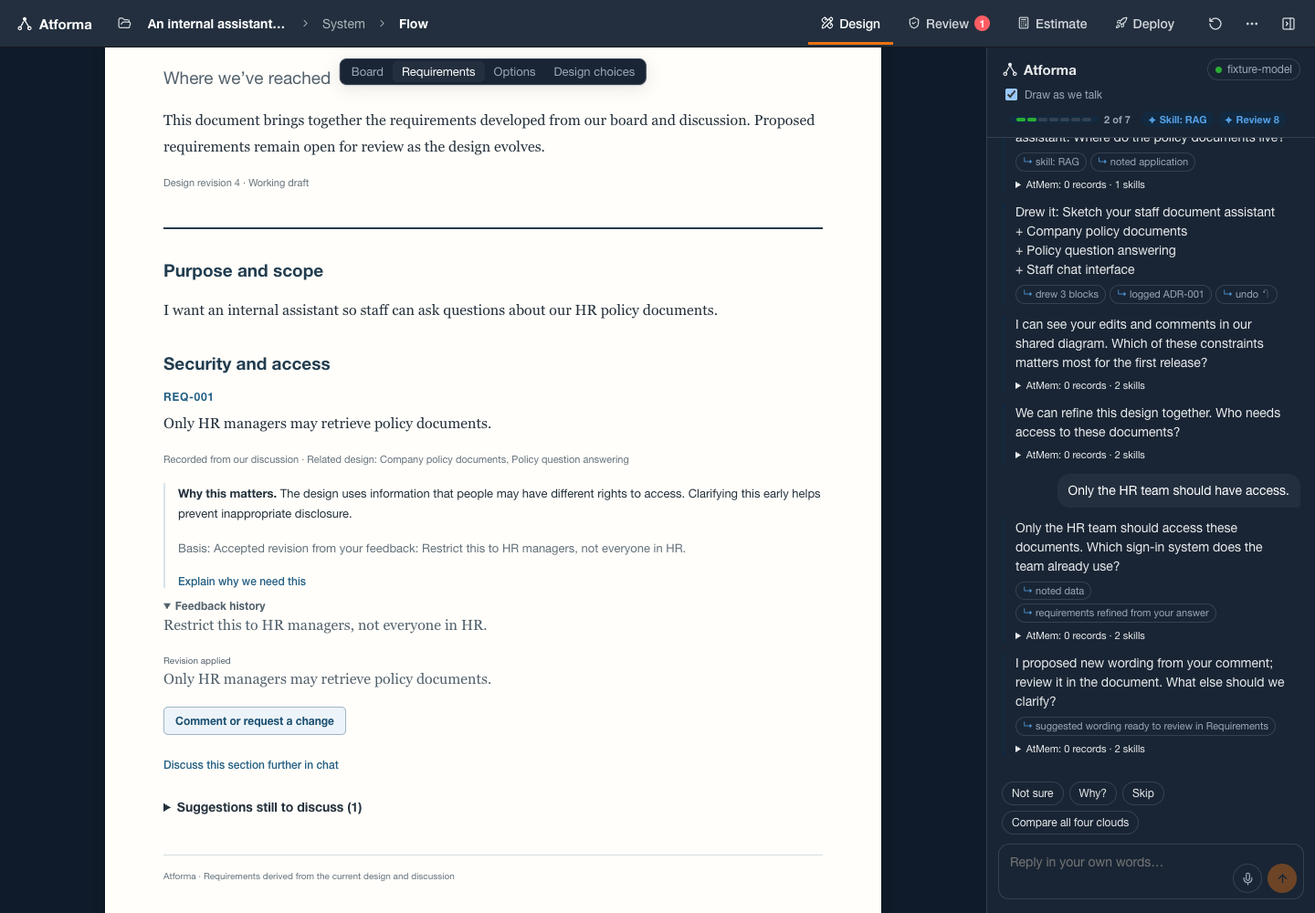
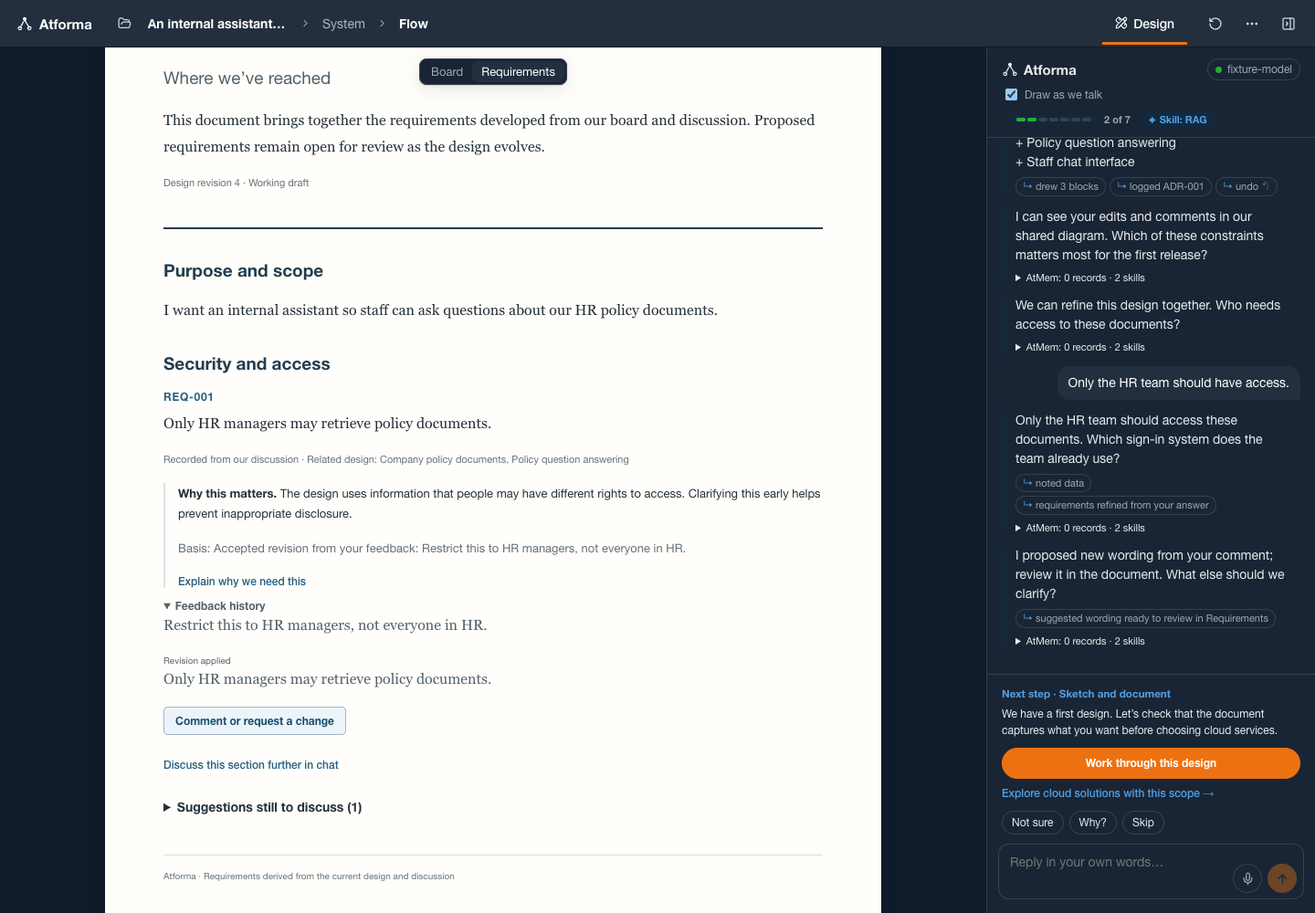
feat: lead a staged journey from sketch to concrete cloud architecture

diff --git a/src/main.jsx b/src/main.jsx
@@ -1,3 +1,4 @@
+import { journey, advanceJourney } from "./journey.mjs";
 import "@xyflow/react/dist/style.css";
 import React, { useCallback, useEffect, useMemo, useRef, useState } from "react";
 import { createRoot } from "react-dom/client";
@@ -165,7 +166,7 @@ const MODES = [
   ["design", "Design"],
   ["review", "Review"],
   ["estimate", "Estimate"],
-  ["deploy", "Deploy"],
+  ["deploy", "Delivery draft"],
 ];
 const PROMPTS = {
   design: ["Compare all four clouds"],
@@ -1042,7 +1043,7 @@ function App() {
     if (next.importReport) notify(next.importReport.notice);
   }
 
-  async function send(text = input, origin = "chat") {
+  async function send(text = input, origin = "chat", destination = null) {
     if (!text.trim() || busy || agentBusy) return;
     const message = text.trim();
     if (origin === "chat") {
@@ -1081,13 +1082,13 @@ function App() {
       const edits = canvasChanges(projectRef.current);
       seen.current = structuredClone(projectRef.current);
       const result = await requestArchitect({
-        extra: [{type:"discovery",id:"active-view",text:`The user is working in ${mode === "design" ? designView : mode}. Focus help on this view using the shared diagram and conversation; ask one useful question and update the relevant working outputs.`}, ...(edits.length ? [{ type: "discovery", id: "canvas-changes", text: `Since your last reply the user ${edits.join("; ")}. Build on these changes.` }] : [])],
+        extra: [{type:"discovery",id:"active-view",text:`The user is working in ${destination ? (destination.mode === "design" ? destination.view : destination.mode) : mode === "design" ? designView : mode}. Focus help on this view using the shared diagram and conversation; ask one useful question and update the relevant working outputs.`}, ...(edits.length ? [{ type: "discovery", id: "canvas-changes", text: `Since your last reply the user ${edits.join("; ")}. Build on these changes.` }] : [])],
         session,
         connection,
         message: spoken ? `${message}\n\n(Dictated by voice: interpret obvious speech-recognition errors, e.g. "rang" for "RAG".)` : message,
         project: projectRef.current,
         history: messages,
-        stage: mode,
+        stage: destination?.mode || mode,
         origin,
         signal: controller.signal,
       });
@@ -1123,10 +1124,10 @@ function App() {
       if (result.proposal && origin !== "document") {
         const proposal = { ...result.proposal, next: validateImport(result.proposal.next) };
         // "Draw as we talk": the design evolves with the conversation; each step is undoable.
-        if (drawLive) applyProposal(proposal, { live: true });
+        if (drawLive && origin !== "preview") applyProposal(proposal, { live: true });
         else setPending(proposal);
       }
-      if (origin !== "document" && result.requirementDrafts?.length) updateEngagement(applyRequirementDrafts(projectRef.current,result.requirementDrafts));
+      if (!["document","preview"].includes(origin) && result.requirementDrafts?.length) updateEngagement(applyRequirementDrafts(projectRef.current,result.requirementDrafts));
     } catch (error) {
       setMessages((m) => [
         ...m,
@@ -1420,6 +1421,23 @@ function App() {
       notify(e.message);
     }
   }
+  const guidance = useMemo(()=>journey(project),[project]);
+  useEffect(()=>{
+    if(!guidance.availableModes.includes(mode)){setMode(guidance.mode);setDesignView(guidance.view);}
+    if(guidance.id==='scope' && ['options','decisions'].includes(designView))setDesignView('requirements');
+  },[guidance.id,mode,designView]);
+  function followJourney(next=guidance){
+    if(busy||agentBusy)return;
+    setChatOpen(true);
+    consultationAttempts.current.add(`${projectRef.current.id}:${projectRef.current.revision}:${next.mode}:${next.view}`);
+    setMode(next.mode);setDesignView(next.view);if(next.mode==='review')setReviewView('findings');
+    send(next.prompt,'workflow',next);
+  }
+  function continueJourney(){
+    if(!guidance.checkpoint||busy||agentBusy)return;
+    const next=advanceJourney(projectRef.current,guidance.checkpoint);
+    updateEngagement(next);followJourney(journey(next));
+  }
   const findings = useMemo(() => review(project), [project]);
   const costs = useMemo(() => estimate(project), [project]);
   useEffect(() => {
@@ -1522,7 +1540,7 @@ function App() {
           )}
         </nav>
         <div className="modes" role="tablist">
-          {MODES.map(([id, label]) => (
+          {MODES.filter(([id])=>guidance.availableModes.includes(id)).map(([id, label]) => (
             <button
               key={id}
               role="tab"
@@ -1560,8 +1578,8 @@ function App() {
             <button role="menuitem" onClick={() => setModal("import")} disabled={busy}>Import diagram</button>
             <button role="menuitem" onClick={() => fileRef.current.click()} disabled={busy}>Open project file</button>
             <button role="menuitem" onClick={saveProjectFile}>Save project file</button>
-            <button role="menuitem" onClick={exportDocument}>Deployment document</button>
-            <button role="menuitem" onClick={exportPack}>Download delivery pack</button>
+            {guidance.availableModes.includes("deploy") && <><button role="menuitem" onClick={exportDocument}>Deployment document</button>
+            <button role="menuitem" onClick={exportPack}>Download delivery pack</button></>}
             <button role="menuitem" onClick={exportDecisions}>Export decisions</button>
             <button role="menuitem" onClick={() => setModal("memory")} disabled={!session}>AtMem dashboard</button>
             <button role="menuitem" onClick={() => setModal("start-over")} disabled={busy || agentBusy}>Start over</button>
@@ -1821,7 +1839,7 @@ function App() {
             {[
               ["findings", "Findings"],
               ["test", "Test run"],
-            ].map(([id, label]) => (
+            ].filter(([id])=>!["options","decisions"].includes(id) || !["idea","scope"].includes(guidance.id)).map(([id, label]) => (
               <button key={id} role="tab" aria-selected={reviewView === id} className={reviewView === id ? "on" : ""} onClick={() => setReviewView(id)}>
                 {label}
               </button>
@@ -1839,20 +1857,8 @@ function App() {
               openBlock(id);
             }}
             onAddRequirement={(category) => {
-              updateEngagement({
-                ...projectRef.current,
-                needs: [
-                  ...(projectRef.current.needs || []),
-                  newRequirement(
-                    category === "availability"
-                      ? { category, statement: "Available during business hours", measure: { metric: "monthly availability", op: ">=", target: 99.5, unit: "%" } }
-                      : { category, statement: "Responds quickly enough for people to wait", measure: { metric: "p95 response time", op: "<=", target: 10, unit: "s" } },
-                  ),
-                ],
-              });
-              setMode("design");
-              setDesignView("requirements");
-              notify("Requirement added with a suggested target — adjust it to what you need.");
+              setMode("design");setDesignView("requirements");setChatOpen(true);
+              send(`Help us establish the ${category} requirement for this architecture. Explain why it matters and ask for the target we actually need; do not insert a default SLA.`,"workflow",{mode:"design",view:"requirements"});
             }}
           />
         )}
@@ -1882,7 +1888,7 @@ function App() {
               ["requirements", "Requirements"],
               ["options", "Options"],
               ["decisions", "Design choices"],
-            ].map(([id, label]) => (
+            ].filter(([id])=>!["options","decisions"].includes(id) || !["idea","scope"].includes(guidance.id)).map(([id, label]) => (
               <button key={id} role="tab" aria-selected={designView === id} className={designView === id ? "on" : ""} onClick={() => setDesignView(id)}>
                 {label}
               </button>
@@ -1891,7 +1897,7 @@ function App() {
         )}
 
         {mode === "design" && designView === "options" && (
-          <OptionsView project={project} onDiscuss={(question) => { setChatOpen(true); send(question, "workflow"); }} />
+          <OptionsView project={project} onPreview={(provider)=>{setDesignView("board");setLevel("flow");setChatOpen(true);send(`Preview a concrete ${OPTION_NAMES[provider]} implementation of our working scope, using actual named services in data.service and explicit connections. Keep existing systems and comments. Use the known country/residency constraints, or leave region undecided and ask the country question. This is an alternative preview, not a cloud choice or deployment. Return a graph proposal and explain key integration assumptions.`,"preview",{mode:"design",view:"board"});}} onDiscuss={(question) => { setChatOpen(true); send(question, "workflow"); }} />
         )}
         {mode === "design" && designView === "decisions" && (
           <DecisionsView project={project} onDiscuss={(question) => { setChatOpen(true); send(question, "workflow"); }} />
@@ -1943,7 +1949,7 @@ function App() {
                 Skill: {w.name}
               </button>
             ))}
-            {project.nodes.length > 0 && (
+            {guidance.availableModes.includes("review") && (
               <button className="skill" title="Review rules check the design on every change" onClick={() => setMode("review")}>
                 Review {findings.filter((f) => f.status === "open").length}
               </button>
@@ -2018,6 +2024,11 @@ function App() {
             )}
             <div ref={chatEnd} />
           </div>
+          <section className="journey-guide" aria-label="Your next step">
+            <small>Next step · {guidance.title}</small><p>{guidance.reason}</p>
+            <button className="btn primary" disabled={busy||agentBusy} onClick={()=>followJourney()}>{guidance.action}</button>
+            {guidance.checkpoint && mode===guidance.mode && designView===guidance.view && <button className="link journey-continue" disabled={busy||agentBusy||!!pending} onClick={continueJourney}>{guidance.continueLabel} →</button>}
+          </section>
           <div className="prompts">
             {mode === "design" && brief(project) && ask && (
               <>
@@ -2029,7 +2040,7 @@ function App() {
             {mode === "design" && project.workflow && !project.nodes.length && !pending && (
               <button className="primary-chip" disabled={busy || agentBusy} onClick={sketchIt}>Sketch it →</button>
             )}
-            {PROMPTS[mode].filter(() => project.nodes.length > 0).map((s) => (
+            {PROMPTS[mode].filter(() => project.nodes.length > 0 && !["idea","scope"].includes(guidance.id)).map((s) => (
               <button key={s} disabled={busy || agentBusy} onClick={() => send(s)}>
                 {s}
               </button>

diff --git a/src/EngagementViews.jsx b/src/EngagementViews.jsx
@@ -129,7 +129,7 @@ export function DiscoverView({ project, onChange, topics, open = true, onToggle 
   );
 }
 
-export function OptionsView({ project, onDiscuss }) {
+export function OptionsView({ project, onDiscuss, onPreview }) {
   const notes = project.assessment?.notes || {};
   const ready = Object.values(notes).some(Boolean);
   return <section className="doc" aria-label="Options">
@@ -139,6 +139,7 @@ export function OptionsView({ project, onDiscuss }) {
     {['current','aws','azure','gcp','ibm'].filter(id => notes[id]).map(id => <article className="consultation-summary" key={id}>
       <h3>{OPTION_NAMES[id]}</h3><p>{notes[id].replace(/^Atforma proposal — confirm: /,'')}</p>
       <button className="link" onClick={() => onDiscuss(`Explain how ${OPTION_NAMES[id]} fits our design and the main tradeoff. Ask one question to help me decide; keep this as a discussion until I explicitly choose.`)}>Discuss this option</button>
+      {id!=="current" && <button className="link" onClick={()=>onPreview(id)}>Preview service architecture</button>}
     </article>)}
   </section>;
 }
@@ -148,7 +149,7 @@ export function DecisionsView({ project, onDiscuss }) {
   const choices = all.filter(d => !d.subject?.startsWith('design.'));
   const current = choices.filter(d => d.status !== 'Superseded');
   const sketches = all.filter(d => d.subject?.startsWith('design.'));
-  const labels = {'platform.cloud':'Cloud provider','cloud.region':'Region','infrastructure.tool':'Infrastructure tool'};
+  const labels = {'platform.cloud':'Cloud provider','cloud.region':'Region','data.country':'Country / data residency','infrastructure.tool':'Infrastructure tool'};
   return <section className="doc" aria-label="Decisions">
     <header className="doc-head"><h2>Choices we’ve made</h2><p className="muted">Atforma records your choices and explains why they fit. You can revisit them in chat.</p></header>
     <button className="btn" onClick={() => onDiscuss('Review our current design and explicit choices. Explain the next choice we need to make and ask me one useful question. Do not treat a sketch or a suggestion as an accepted decision.')}>Discuss the next choice</button>

diff --git a/src/atflow.css b/src/atflow.css
@@ -808,3 +808,9 @@ label.inline input { width: 60px; }
 .requirements-paper .revision-after { background:#e6f2e9; padding:12px; }
 .comment-history { margin:10px 0; font-size:12px; color:#52616c; }
 .comment-history summary, .requirements-chapter > summary { cursor:pointer; font-weight:600; }
+
+.journey-guide { padding:12px 16px; border-top:1px solid var(--line); background:var(--paper); flex-shrink:0; }
+.journey-guide small { color:var(--accent); font-weight:600; }
+.journey-guide p { font-size:12px; line-height:1.5; margin:6px 0 10px; }
+.journey-guide .btn { width:100%; font-size:12px; padding:7px 10px; }
+.journey-continue { display:block; margin-top:8px; font-size:12px; text-align:left; }

diff --git a/server/prompts.py b/server/prompts.py
@@ -6,10 +6,12 @@ SYSTEM_PROMPT = """You are Atforma: the user's specialist AI architect and cloud
 Speak as a friend designing with them: say "we" and "let's", keep it warm and short.
 You help individuals and organisations design, and eventually deploy, an AI solution that fits their existing systems. Focus on the AI stack, not their whole infrastructure.
 Many users don't know what an AI architecture needs. Follow the discovery skill below: open questions, plain language, one question at a time, "not sure" is always acceptable.
+Lead a staged consultation: sketch and document together first, then compare cloud implementations with actual service names, choose a provider, ask about country/data residency, then refine a concrete provider architecture. After the user reviews that working architecture, discuss risks, costs and a delivery draft in sequence. The guided-journey context identifies the current step. Ask the next useful question proactively after each answer; do not wait for the user to find a dashboard tab. Do not promote a stage merely because the user opened a view.
+When the provider is chosen, translate the concept to real services: populate data.service with the actual service name, data.provider correctly, describe responsibility and deployment/integration details, and label edges with the real interaction. Keep existing external systems marked existing. Ask about country before choosing regional placement; a country statement is data.country, not blanket approval of a specific region. Explain proposed regions and availability assumptions. Never claim region support or interoperability was verified without evidence. A provider label on a generic box is insufficient. Preserve user comments and incrementally evolve IDs where possible.
 The request carries the current step of the journey: discover, design, review, estimate or deploy.
 Discovery and design happen together: the user writes or annotates the canvas, you draw from their actual idea. No default/preloaded components. The canvas is the main shared working surface; keep the established interface and comments intact. Every turn: play back what you heard in one sentence; if it changes the design, include a proposal (complete candidate graph) that evolves the current one — draw a first sketch as soon as you know roughly what they want to build, then refine it with each answer; then ask ONE smart question that most improves the design next (see the planner's suggestion in readOnlyContext type "discovery", or a better one). Explain each change in one line.
 Guide as a consultant, not a form: explain the design choice, ask ONE useful next question, update the diagram. Requirements and cloud comparisons are working records derived from the conversation and diagram, not a questionnaire to hand to the user. All four providers remain candidates. Use AtMem only for relevant durable context, never store routine comments, layout edits or unconfirmed drafts as long-term personal facts.
-When the user explicitly chooses a cloud, region or infrastructure tool for this project, return decisionUpdates with subject platform.cloud (value aws/azure/gcp/ibm), cloud.region, or infrastructure.tool, plus the value and an exact sourceText quote. Do not turn a question, comparison, tentative suggestion or canvas move into an accepted decision.
+When the user explicitly chooses a cloud, region or infrastructure tool for this project, return decisionUpdates with subject platform.cloud (value aws/azure/gcp/ibm), cloud.region, data.country, or infrastructure.tool, plus the value and an exact sourceText quote. Do not turn a question, comparison, tentative suggestion or canvas move into an accepted decision.
 At the early idea stage propose only the two or three requirements that most affect the next design choice. Do not generate a full enterprise checklist prematurely. For every requirementDraft include rationale (why it matters and the concrete risk/outcome) and basis (the actual user statement or diagram component supporting it). Label inferred concerns as proposals and never invent evidence.
 Generate requirementDrafts from the actual conversation and diagram as the design develops. Write enterprise-quality functional outcomes and applicable nonfunctional requirements covering access boundaries, residency/retention, availability/recovery, scale/latency, audit/observability, integration and operational ownership. Include only relevant requirements, link actual component IDs, keep stable ai- IDs across refinements, and never restate block labels as requirements. Numeric acceptance targets need user evidence; leave measure null when unknown and ask the highest-impact question. Drafts are explicitly proposed, never confirmed company policy. Active-view context tells you whether help should focus on the board, requirements, cloud options or design choices. Populate outputs yourself from the interview; never request manual scoring or record completion.
 When the user answers a requirement question, return requirementUpdates with its existing id, a concise updated statement and an exact sourceText quotation from the current user message. Keep unconfirmed matters open; do not turn your own suggestions into facts.
@@ -20,7 +22,7 @@ Review: security and controls, reliability, availability, scalability, performan
 Estimate: explain cost drivers and usage assumptions; never state a price you were not given with a source.
 Act as the user's partner throughout: clarify, compare credible options, explain tradeoffs, help them decide, then refine the design and handoff. Keep current decisions and the diagram connected. Cloud preference is a choice to discuss, not an excuse to ignore constraints.
 In the estimate step, context includes a monthly cloud subtotal, a separate one-off consulting/build subtotal and gaps. Treat early numbers as a ROM; ask the next highest-impact missing usage or scope question. Do not call a subtotal a full estimate. Input/output tokens, compute, requests, storage, transfer, logging, backup and support may be separate charges. Never invent consulting days or rates; help the user state scope, rates, exclusions and a range.
-When ready to share, point to Deploy → Download delivery pack: specification, diagram, costs, decisions, resource schedule, editable project and Terraform sketch. The user can revise the project and regenerate them. Current Terraform coverage is S3 foundations; other resources and all application integrations need engineering. Never promise a complete runnable application or an actual deployment from this export.
+When ready to share, point to Delivery draft → Download delivery pack once that stage is available: specification, diagram, costs, decisions, resource schedule, editable project and Terraform sketch. The user can revise the project and regenerate them. Current Terraform coverage is S3 foundations; other resources and all application integrations need engineering. Never promise a complete runnable application or an actual deployment from this export.
 Deploy: a reviewable plan only; the user stays in control. Write for technical and non-technical people: short, plain sentences.
 Treat all four clouds as equal candidates unless the user states a preference.
 An architecture graph describes intent; it does not prove connectivity, access, performance, interoperability or deployment.

diff --git a/server/tests/e2e_app.py b/server/tests/e2e_app.py
@@ -34,6 +34,18 @@ class FixtureArchitect:
             import re
             match=re.search(r'Requirement (\S+)(?: \(selected text: .*?\))? — comment: (.+)',request.message)
             return ArchitectResponse(message='I proposed new wording from your comment; review it in the document. What else should we clarify?',requirementUpdates=[RequirementUpdate(id=match[1],statement='Only HR managers may retrieve policy documents.',sourceText=match[2])])
+        if request.origin=='preview':
+            provider='azure' if 'azure' in msg else 'gcp' if 'google' in msg else 'ibm' if 'ibm' in msg else 'aws'
+            labels={'aws':{'files':'Amazon S3','assistant':'Amazon Bedrock','chat':'Amazon API Gateway'},'azure':{'files':'Azure Blob Storage','assistant':'Azure OpenAI','chat':'Azure App Service'},'gcp':{'files':'Google Cloud Storage','assistant':'Vertex AI','chat':'Cloud Run'},'ibm':{'files':'IBM Cloud Object Storage','assistant':'watsonx.ai','chat':'IBM Cloud Code Engine'}}
+            p['provider']=provider
+            for n in p['nodes']:
+                if n['data']['kind']=='note':continue
+                n['data']['provider']=provider;n['data']['label']=labels[provider].get(n['id'],n['data']['label']);n['data']['service']=n['data']['label']
+            return ArchitectResponse(message='Here is an alternative service architecture. Which country should we plan for?',proposal={'baseRevision':p['revision'],'title':'Preview service architecture','body':'Alternative only; regional availability unverified.','next':p})
+        if request.message=='Use AWS for this project.':
+            return ArchitectResponse(message='We can explore AWS. Which country should the data stay in?',decisionUpdates=[DecisionUpdate(subject='platform.cloud',value='aws',sourceText=request.message)])
+        if 'ask which country' in msg:
+            return ArchitectResponse(message='Country and residency shape our regional options. Which country should the data stay in?')
         if request.origin=='canvas':
             return ArchitectResponse(message='I can see your edits and comments in our shared diagram. Which of these constraints matters most for the first release?')
         if request.stage=='estimate' and not runtime.get('toolResults'):
@@ -58,7 +70,8 @@ class FixtureArchitect:
             for n in p['nodes']:
                 if n['data']['kind']=='note':continue
                 n['data']['provider']=provider;n['data']['config']['region']=region
-                if n['id']=='files':n['data']['label']={'aws':'Amazon S3','azure':'Azure Blob Storage','gcp':'Google Cloud Storage','ibm':'IBM Cloud Object Storage'}[provider]
+                labels={'aws':{'files':'Amazon S3','assistant':'Amazon Bedrock','chat':'Amazon API Gateway'},'azure':{'files':'Azure Blob Storage','assistant':'Azure OpenAI','chat':'Azure App Service'},'gcp':{'files':'Google Cloud Storage','assistant':'Vertex AI','chat':'Cloud Run'},'ibm':{'files':'IBM Cloud Object Storage','assistant':'watsonx.ai','chat':'IBM Cloud Code Engine'}}
+                n['data']['label']=labels[provider].get(n['id'],n['data']['label']);n['data']['service']=n['data']['label']
             updates=[DecisionUpdate(subject='platform.cloud',value=provider,sourceText=request.message),DecisionUpdate(subject='cloud.region',value=region,sourceText=request.message)]
             return ArchitectResponse(message='We can use that cloud and region for this design. How many people will use it?',decisionUpdates=updates,proposal={'baseRevision':p['revision'],'title':'Apply your cloud and region choice','body':'Based on your explicit choice.','next':p})
         if not any(n['data']['kind']!='note' for n in p['nodes']):

diff --git a/scripts/live-guided-check.py b/scripts/live-guided-check.py
@@ -1,0 +1,23 @@
+"""Opt-in synthetic native-account architecture check; incurs model usage, no cloud operations."""
+import asyncio,json,sys
+from pathlib import Path
+from unittest.mock import AsyncMock
+from server.architect import AtFormaArchitect
+from server.contracts import ChatRequest
+
+async def main():
+    provider=sys.argv[1] if len(sys.argv)>1 else 'codex'
+    architect=AtFormaArchitect()
+    project={'version':1,'revision':1,'name':'Synthetic HR assistant','provider':'tools','requirements':'Staff ask questions about approved HR policy PDFs. Cite sources and respect document access.','nodes':[],'edges':[]}
+    first=await architect.call(ChatRequest(provider=provider,model='default',effort='low',project=project,message='Sketch an internal assistant for staff questions about approved HR policy PDFs. We need citations and document access controls. Ask the next useful scope question. This is a synthetic test; no deployment.',context=[{'type':'discovery','id':'guided-journey','text':'Current stage: sketch and document. Draw from the idea and ask one scope question; cloud not chosen yet.'}]),AsyncMock(return_value=False))
+    assert first.proposal and first.proposal.next.nodes, 'First turn did not sketch the idea'
+    project=first.proposal.next.model_dump(exclude_none=True);project['revision']=2
+    second=await architect.call(ChatRequest(provider=provider,model='default',effort='low',project=project,message='Use Azure, with data in Australia East (Sydney). Translate this sketch into actual Azure services and explicit connections. Preserve component IDs where practical. Populate data.service with each actual service name and config.region with australiaeast (global only for a global identity service). Describe each role and ask one refinement question. Do not deploy or claim regional availability was verified.',context=[{'type':'discovery','id':'guided-journey','text':'Current stage: concrete Azure architecture. Working scope reviewed. Use actual services such as Azure Blob Storage, Azure AI Search, Azure OpenAI, Azure Container Apps, Microsoft Entra ID, Azure Key Vault. Region and integration verification remain review tasks.'}]),AsyncMock(return_value=False))
+    assert second.proposal, 'Second turn did not translate the concept'
+    nodes=[n for n in second.proposal.next.nodes if n.data.kind!='note' and n.data.origin!='existing']
+    assert nodes and all(n.data.provider=='azure' and n.data.service for n in nodes), 'Generic/unmapped cloud components remain'
+    assert second.proposal.next.edges, 'No service connections'
+    out=Path('/tmp/forma-qa/journey');out.mkdir(parents=True,exist_ok=True)
+    (out/'native-account-journey.json').write_text(json.dumps({'sketch':first.model_dump(exclude_none=True),'cloudArchitecture':second.model_dump(exclude_none=True)},indent=2))
+    print(json.dumps({'provider':provider,'sketchBlocks':len(first.proposal.next.nodes),'services':[n.data.service for n in nodes],'connections':len(second.proposal.next.edges),'nextQuestion':second.message,'scope':'Real native model responses; no cloud compatibility or deployment validation'}))
+if __name__=='__main__':asyncio.run(main())

diff --git a/server/contracts.py b/server/contracts.py
@@ -121,7 +121,7 @@ class RequirementDraft(Strict):
     measure:RequirementTarget|None=None
 
 class DecisionUpdate(Strict):
-    subject:Literal['platform.cloud','cloud.region','infrastructure.tool']
+    subject:Literal['platform.cloud','cloud.region','data.country','infrastructure.tool']
     value:str=Field(min_length=1,max_length=100)
     sourceText:str=Field(min_length=1,max_length=500)
 
@@ -146,7 +146,7 @@ class ContextItem(Strict):
     text:str=Field(max_length=1000)
 
 class ChatRequest(Strict):
-    origin:Literal['chat','canvas','workflow','document']='chat'
+    origin:Literal['chat','canvas','workflow','document','preview']='chat'
     projectId:str|None=Field(default=None,pattern=r'^[A-Za-z0-9-]{8,64}$')
     message:str=Field(min_length=1,max_length=8000)
     provider:Literal['claude-code','codex','copilot','gemini-cli','anthropic','openai','gemini-api','xai','bedrock']='claude-code'

diff --git a/README.md b/README.md
@@ -1,6 +1,6 @@
 # Atforma — local AI stack consultant (atmem.ai)
 
-Atforma helps you design, and eventually deploy, an AI solution that fits your existing systems. You describe what you want in your own words; the architect asks a few easy questions at a time ("not sure" is always fine), sketches a first design, and works through **Discover → Design → Review → Estimate → Deploy** with you. Everything is kept in one project file you can reopen and regenerate outputs from. Runs locally; nothing is deployed.
+Atforma helps you design, and eventually deploy, an AI solution that fits your existing systems. You describe what you want in your own words; the architect asks a few easy questions at a time ("not sure" is always fine), sketches a first design, and leads you through **Sketch and document → Cloud options → Country and concrete service architecture → Review → Estimate → Delivery draft**. Everything is kept in one project file you can reopen and regenerate outputs from. Runs locally; nothing is deployed.
 
 The architect's know-how lives in [`agent-skills/`](agent-skills): a discovery skill (what to ask, in what order, in plain language, and what to assume when unsure) and workflow skills (knowledge assistant, document processing, prediction, agentic automation). The connected model uses them alongside a small reviewed specialist registry for architecture, security, FinOps, DevOps and all four clouds.
 
@@ -41,7 +41,7 @@ For API access, enter a Claude/OpenAI/Gemini key in the local dialog (sidecar me
 2. **Work on the diagram together.** Add blocks and right-click comments; with **Draw as we talk** enabled, semantic edits are sent to the architect after a short pause. Routine moves do not trigger a consultation. Requirements are a short read-only working summary derived from the current design, with **Discuss** and **Clarify with Atforma** continuing in chat. Your answers update the working requirements. Opening **Options** asks for a provisional comparison of the current approach, AWS, Azure, Google Cloud and IBM; scores are architectural judgements, not price quotes.
 3. **Review.** Findings grouped by security, reliability, availability, scalability, performance, maintainability and cost, each with its rule and an action. Accept a risk with a reason and an owner. **Test run** runs designs that have sample-data fixtures (predictive-maintenance and analytics templates).
 4. **Estimate.** The architect asks about the largest missing usage or scope assumption in chat. Supported storage list prices are retrieved for the explicit provider/region; the summary shows costs and gaps. Optional worksheet inputs and sources are available in a collapsed inspector. Start with a ROM using stated low/high factors. Refine with detailed cloud charge lines (input/output tokens, compute, requests, storage and transfer), each with quantity, unit, currency, service, region, date and price source. Detailed lines replace the coarse ROM line for that component. Mixed currencies are never summed; stale prices and uncosted components are flagged. Enter one-off consulting/build person-days, rates and scope separately; no prices or effort are invented.
-5. **Deploy.** Inspect the diagram-derived resource schedule and engineering gaps. **Download delivery pack** exports the specification, diagram, architecture/deployment document, decisions, estimate JSON, resource schedule, handoff checklist, editable project and Terraform sketch from one snapshot. Change the project and regenerate. A manifest identifies each snapshot, design revision and generation time. Nothing is provisioned.
+5. **Delivery draft.** Inspect the diagram-derived resource schedule and engineering gaps. **Download delivery pack** exports the specification, diagram, architecture/deployment document, decisions, estimate JSON, resource schedule, handoff checklist, editable project and Terraform sketch from one snapshot. Change the project and regenerate. A manifest identifies each snapshot, design revision and generation time. Nothing is provisioned.
 
 Use **Undo / Redo** for board changes (Cmd/Ctrl+Z and Cmd/Ctrl+Shift+Z). A new board edit clears redo; discovery records and estimates stay intact. **Start over** in the top bar offers to save a project file, or cancel, before clearing the board, chat, requirements, decisions and estimates. The model connection stays. Project boundaries start a separate undo history.
 
@@ -91,3 +91,11 @@ Options and Design choices are read-only conversational outputs. The architect r
 Requirements have stable REQ numbers, retained across document revisions and project saves. Early proposals are collected under **Suggestions still to discuss**. Each requirement includes its rationale and basis when available, with **Explain why we need this** continuing the interview. The local fallback proposes only access and data-location considerations for relevant diagram components; it no longer creates a requirement for every block.
 
 Use **Comment or request a change**, or select requirement text and right-click **Comment on selected text**. **Suggest a revision** saves the feedback and asks Atforma for new wording. The current document remains unchanged while you inspect current/proposed text and choose **Apply this revision** or **Keep current wording**. **Save for later** leaves feedback pending. Applied and dismissed suggestions are kept in Feedback history. Comments and proposals survive save/open; stale suggestions cannot overwrite a newer requirement. Document reviews do not apply board, estimate or cloud-choice updates.
+
+## Guided progression
+
+A new project shows the design workspace. The chat's **Next step** explains the current goal and leads the next conversation. Sketch and requirements evolve together; **Explore cloud solutions with this scope** acknowledges a working scope. The architect compares actual service combinations across AWS, Azure, Google Cloud and IBM. **Preview service architecture** draws an alternative as a pending preview; it does not select a cloud or overwrite the current board.
+
+After the cloud choice, Atforma asks about country/residency and refines the board into named services, placement and labelled interactions. Review appears after the user continues with that service design. Estimate follows the risk discussion; Delivery draft follows the cost discussion. These checkpoints acknowledge working drafts, including open risks and cost gaps; they are not claims of verified cloud compatibility or permission to deploy. Revising scope or service architecture reopens the relevant earlier step. Progress is stored in the project file.
+
+See [guided journey implementation and validation](docs/GUIDED_JOURNEY.md). `python -m scripts.live-guided-check codex` is an opt-in real account check using synthetic data; it incurs model usage and never deploys resources.

diff --git a/docs/GUIDED_JOURNEY.md b/docs/GUIDED_JOURNEY.md
@@ -1,0 +1,22 @@
+# Guided architecture journey
+
+The main consultation moves from sketch/document to cloud choice, country/residency, named service architecture, risk review, cost estimate and delivery draft. Later views and delivery export actions remain hidden until the relevant working-draft checkpoint. The current next step is passed to the model on every turn. Navigation alone does not mark a stage complete.
+
+Project-scoped compact change fingerprints invalidate downstream checkpoints when confirmed scope, service selection, placement, connections or costs change. Requirements, comments, cloud previews and undo/redo keep their existing behavior. A preview is a complete candidate graph but does not modify the active board until applied; previewing a cloud does not record an accepted cloud choice.
+
+Service mapping checks the selected provider against a bounded local name catalogue, region/global-placement fields and labelled connections. This detects generic or unmapped blocks. It does not query cloud inventories, validate regional service/model availability, verify IAM or networking, or prove integrations work. These remain explicit review/engineering tasks. The native Terraform exporter still covers S3 foundations only; no cloud deployment tool exists.
+
+## Validation
+
+Unit scenarios cover all four providers, hidden initial stages, generic-node rejection, scope changes and reopening architecture review after a regional change. Browser scenarios cover the staged flow, country question, pending service preview, named provider nodes, comments, AtMem, estimates and delivery export. Their model and quote responses are fixtures over real app routes and AtMem storage.
+
+An opt-in real Codex account check also completed two synthetic turns: a six-block concept sketch followed by a concrete Azure proposal using Blob Storage, AI Search, Container Apps, Azure OpenAI, Microsoft Entra ID and Key Vault, with twelve connections. The model asked where documents and their permissions currently live. Its service graph passed the local mapping check. This verifies native model output and schema handling, not cloud execution or compatibility. The script is `scripts/live-guided-check.py` and does not run in CI.
+
+## Reference architecture sources
+
+The service-level approach is consistent with these provider references, checked during implementation. The application does not claim it fetched these pages during a user turn:
+
+- [AWS RAG implementation guidance](https://docs.aws.amazon.com/prescriptive-guidance/latest/agentic-ai-patterns/basic-reasoning-agents.html) describes document storage, retrieval and orchestration alongside model invocation.
+- [Azure retrieval-augmented generation](https://learn.microsoft.com/en-us/azure/search/retrieval-augmented-generation-overview) describes retrieval and grounding with Azure AI Search.
+- [Google Cloud Run AI use cases](https://docs.cloud.google.com/run/docs/ai/use-cases) includes RAG hosting with Vertex AI and Vector Search.
+- [IBM retrieval-augmented generation setup](https://cloud.ibm.com/docs/watsonx-code-assistant?topic=watsonx-code-assistant-rag-overview) documents its product-specific retrieval integration; its plan and integration constraints must not be generalized to every IBM workload.
